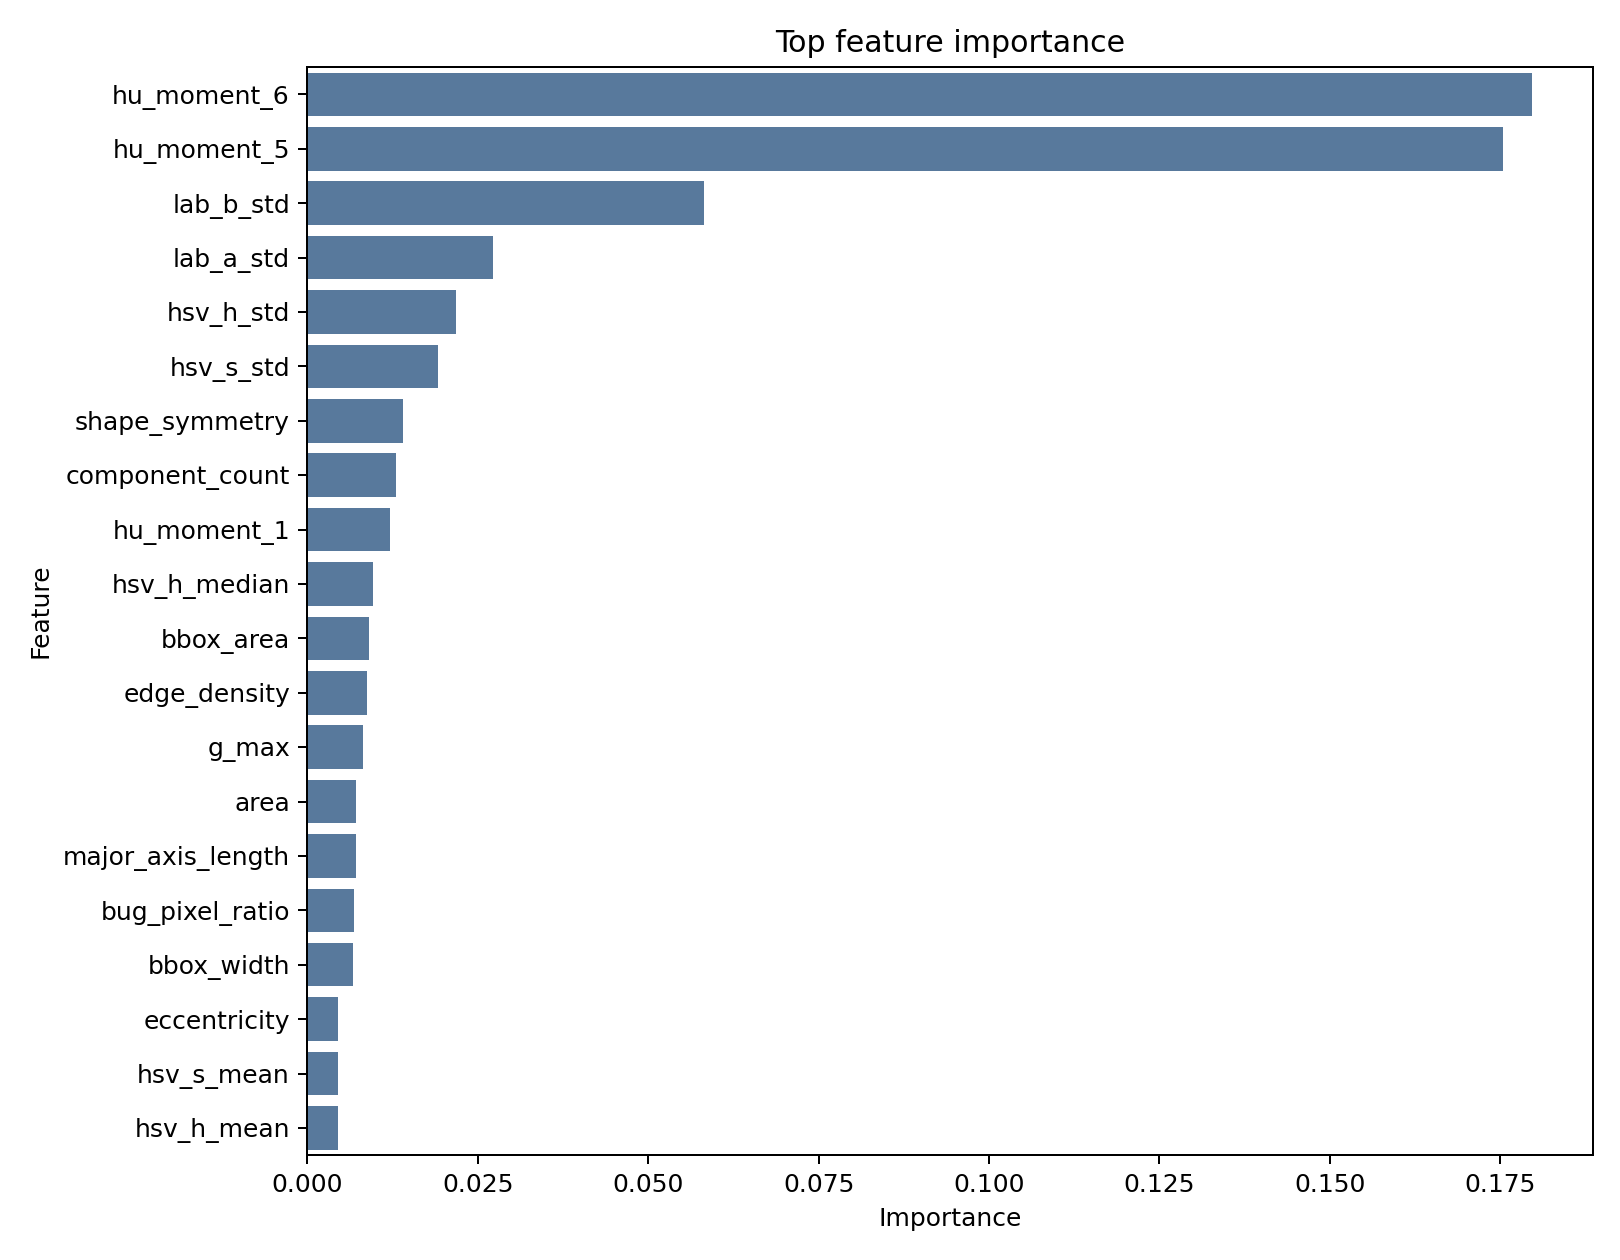
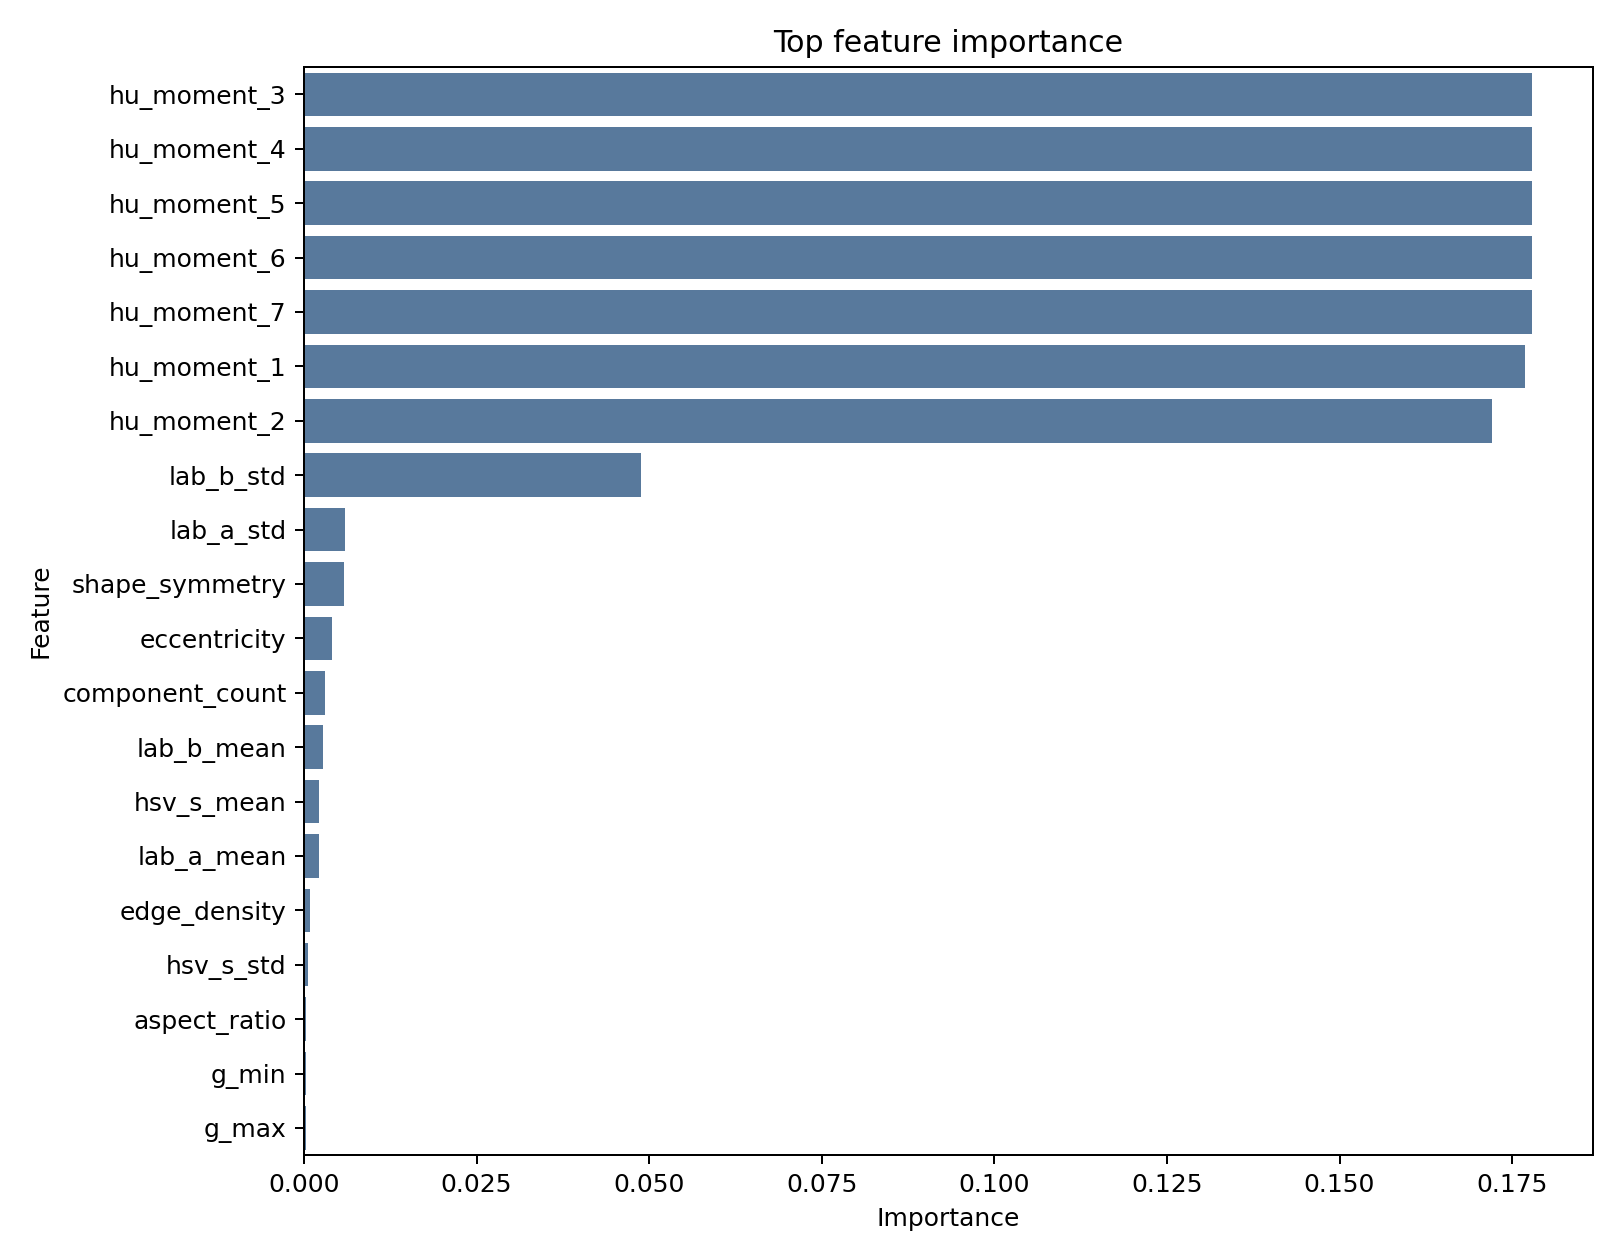
Apply robust final model selection policy

diff --git a/src/train_models.py b/src/train_models.py
@@ -42,6 +42,19 @@ warnings.filterwarnings("ignore", category=RuntimeWarning, module=r"sklearn\..*"
 
 
 NON_FEATURE_COLUMNS = {config.ID_COLUMN, config.TARGET_COLUMN, config.SPECIES_COLUMN}
+TIE_BREAKER_THRESHOLD = 0.005
+TIE_BREAKER_PRIORITY = [
+    "svm_rbf",
+    "random_forest",
+    "extra_trees",
+    "logistic_regression",
+    "knn",
+    "mlp",
+]
+TIE_BREAKER_REASON = (
+    "SVM RBF selected by robustness tie-breaker because its macro-F1 is within 0.005 "
+    "of MLP and it is simpler/stabler for small imbalanced data."
+)
 
 
 def load_training_features() -> tuple[pd.DataFrame, pd.DataFrame, pd.Series]:
@@ -189,7 +202,7 @@ def _feature_importance(final_model: Pipeline, X: pd.DataFrame, y: pd.Series) ->
                 scoring="f1_macro",
                 n_repeats=5,
                 random_state=config.RANDOM_STATE,
-                n_jobs=-1,
+                n_jobs=1,
             )
         importances = result.importances_mean
         method = "permutation_importance_training_descriptive"
@@ -213,6 +226,35 @@ def _feature_importance(final_model: Pipeline, X: pd.DataFrame, y: pd.Series) ->
             for i in top
         ],
     }
+
+
+def choose_final_model(successful: pd.DataFrame) -> tuple[str, str, dict, dict, dict]:
+    ordered = successful.sort_values(["macro_f1", "weighted_f1", "accuracy"], ascending=False)
+    numeric_best = ordered.iloc[0].to_dict()
+    numeric_best_model = str(numeric_best["model"])
+    numeric_best_macro_f1 = float(numeric_best["macro_f1"])
+    threshold_floor = numeric_best_macro_f1 - TIE_BREAKER_THRESHOLD
+    tied = successful[successful["macro_f1"] >= threshold_floor].copy()
+    tied_models = set(tied["model"].astype(str))
+
+    final_model = numeric_best_model
+    for candidate in TIE_BREAKER_PRIORITY:
+        if candidate in tied_models:
+            final_model = candidate
+            break
+
+    final_metrics = tied[tied["model"] == final_model].iloc[0].to_dict()
+    tie_breaker_applied = final_model != numeric_best_model
+    policy = {
+        "threshold": TIE_BREAKER_THRESHOLD,
+        "priority_order": TIE_BREAKER_PRIORITY,
+        "models_within_threshold": tied.sort_values("macro_f1", ascending=False)["model"].tolist(),
+        "applied": tie_breaker_applied,
+        "reason": TIE_BREAKER_REASON
+        if tie_breaker_applied
+        else "Numerically best model retained; no higher-priority stable model was within the tie threshold.",
+    }
+    return numeric_best_model, final_model, numeric_best, final_metrics, policy
 
 
 def train_models() -> dict:
@@ -264,33 +306,48 @@ def train_models() -> dict:
     if successful.empty:
         raise RuntimeError("All model evaluations failed.")
     successful = successful.sort_values(["macro_f1", "weighted_f1", "accuracy"], ascending=False)
-    best_model_name = str(successful.iloc[0]["model"])
-    best_pipeline = clone(model_registry()[best_model_name])
+    (
+        numeric_best_model,
+        final_model_name,
+        numeric_best_metrics,
+        final_recommended_metrics,
+        tie_breaker_policy,
+    ) = choose_final_model(successful)
+    final_pipeline = clone(model_registry()[final_model_name])
 
     with warnings.catch_warnings():
         warnings.simplefilter("ignore", category=ConvergenceWarning)
         warnings.simplefilter("ignore", category=RuntimeWarning)
-        best_pipeline.fit(X, y)
-    train_pred = best_pipeline.predict(X)
-    full_training_metrics = metric_row(best_model_name, y, train_pred)
-    reports["full_data_descriptive_reports"][best_model_name] = classification_report(
+        final_pipeline.fit(X, y)
+    train_pred = final_pipeline.predict(X)
+    full_training_metrics = metric_row(final_model_name, y, train_pred)
+    reports["numeric_best_model"] = numeric_best_model
+    reports["final_recommended_model"] = final_model_name
+    reports["tie_breaker_policy"] = tie_breaker_policy
+    reports["full_data_descriptive_reports"][final_model_name] = classification_report(
         y, train_pred, output_dict=True, zero_division=0
     )
 
-    feature_importance = _feature_importance(best_pipeline, X, y)
-    joblib.dump(best_pipeline, config.BEST_MODEL_PATH)
+    feature_importance = _feature_importance(final_pipeline, X, y)
+    joblib.dump(final_pipeline, config.BEST_MODEL_PATH)
 
     known_labels = sorted(load_labels()[config.TARGET_COLUMN].astype(str).unique().tolist())
     info = {
         "created_at_utc": datetime.now(timezone.utc).isoformat(),
-        "best_model": best_model_name,
+        "numeric_best_model": numeric_best_model,
+        "final_recommended_model": final_model_name,
+        "best_model": final_model_name,
         "selection_metric": "frequent_class_cv_macro_f1",
+        "final_selection_policy": "robustness_tie_breaker_threshold_0.005",
+        "tie_breaker": tie_breaker_policy,
         "target": config.TARGET_COLUMN,
         "species_used_as_target": False,
         "train_feature_rows": int(len(df)),
         "excluded_ids": sorted(config.EXCLUDED_TRAIN_IDS),
         "cv_policy": cv_info,
-        "best_validation_metrics": successful.iloc[0].to_dict(),
+        "numeric_best_validation_metrics": numeric_best_metrics,
+        "final_recommended_validation_metrics": final_recommended_metrics,
+        "best_validation_metrics": final_recommended_metrics,
         "full_data_descriptive_training_metrics": full_training_metrics,
         "model_path": str(config.BEST_MODEL_PATH),
         "known_bug_type_labels": known_labels,
@@ -299,7 +356,8 @@ def train_models() -> dict:
     }
     config.BEST_MODEL_INFO_JSON.write_text(json.dumps(info, indent=2), encoding="utf-8")
     config.CLASSIFICATION_REPORTS_JSON.write_text(json.dumps(reports, indent=2), encoding="utf-8")
-    print(f"Best model: {best_model_name}")
+    print(f"Numeric best model: {numeric_best_model}")
+    print(f"Final recommended model: {final_model_name}")
     return info
 
 

diff --git a/src/make_report.py b/src/make_report.py
@@ -57,8 +57,11 @@ def _markdown_report() -> str:
     comparison = pd.read_csv(config.MODEL_COMPARISON_CSV) if config.MODEL_COMPARISON_CSV.exists() else pd.DataFrame()
     clustering = pd.read_csv(config.CLUSTERING_METRICS_CSV) if config.CLUSTERING_METRICS_CSV.exists() else pd.DataFrame()
     train_rows = best_info.get("train_feature_rows", 249 if config.TRAIN_FEATURES_CSV.exists() else "not generated")
-    best_model = best_info.get("best_model", "not selected")
-    selected_metrics = best_info.get("best_validation_metrics", {})
+    numeric_best_model = best_info.get("numeric_best_model", best_info.get("best_model", "not selected"))
+    final_recommended_model = best_info.get("final_recommended_model", best_info.get("best_model", "not selected"))
+    numeric_metrics = best_info.get("numeric_best_validation_metrics", best_info.get("best_validation_metrics", {}))
+    final_metrics = best_info.get("final_recommended_validation_metrics", best_info.get("best_validation_metrics", {}))
+    tie_breaker = best_info.get("tie_breaker", {})
     full_metrics = best_info.get("full_data_descriptive_training_metrics", {})
     test_available = test_data_available()
 
@@ -118,7 +121,7 @@ def _markdown_report() -> str:
         "",
         "## 6. Supervised models",
         "",
-        "The supervised target is `bug type`; `species` is not used as a target. Model comparison uses frequent-class stratified cross-validation because singleton classes make ordinary stratified 5-fold CV invalid for the full label set. The final selected supervised model is refit on all 249 usable samples, including rare classes.",
+        "The supervised target is `bug type`; `species` is not used as a target. Model comparison uses frequent-class stratified cross-validation because singleton classes make ordinary stratified 5-fold CV invalid for the full label set. The final recommended supervised model is refit on all 249 usable samples, including rare classes.",
         "",
         "Models evaluated: DummyClassifier, LogisticRegression, SVM RBF, KNeighborsClassifier, RandomForestClassifier, ExtraTreesClassifier, GradientBoostingClassifier, and MLPClassifier on extracted features.",
         "",
@@ -126,9 +129,15 @@ def _markdown_report() -> str:
         "",
         _top_model_table(comparison),
         "",
-        f"Selected model: `{best_model}`.",
+        f"Numerically highest CV macro-F1 model: `{numeric_best_model}`.",
         "",
-        f"Selected validation macro-F1: `{selected_metrics.get('macro_f1', 'not available')}`.",
+        f"Numeric best validation macro-F1: `{numeric_metrics.get('macro_f1', 'not available')}`.",
+        "",
+        f"Final recommended submission model: `{final_recommended_model}`.",
+        "",
+        f"Final recommended validation macro-F1: `{final_metrics.get('macro_f1', 'not available')}`.",
+        "",
+        f"Robustness tie-breaker: {tie_breaker.get('reason', 'not applied')}",
         "",
         "Full-data training metrics are descriptive only, not validation metrics.",
         "",
@@ -142,7 +151,7 @@ def _markdown_report() -> str:
         "",
         "## 8. Results",
         "",
-        "The selected model is chosen by frequent-class cross-validation macro-F1. Confusion matrices and feature importance plots are generated under `reports/figures/`.",
+        "The metric table remains unchanged: MLP has the numerically highest frequent-class CV macro-F1. Because SVM RBF is within 0.005 macro-F1 of MLP and is simpler/stabler on small imbalanced handcrafted-feature data, SVM RBF is the final recommended submission model. Confusion matrices and feature importance plots are generated under `reports/figures/`.",
         "",
         f"- Feature importance: `{_figure(config.FIGURES_DIR / 'feature_importance.png')}`",
         "",
@@ -158,7 +167,7 @@ def _markdown_report() -> str:
         "",
         "## 10. Limitations",
         "",
-        "The dataset is small and imbalanced, with very rare classes. Cross-validation excludes singleton classes for model comparison, so rare-class performance is documented mainly through the final full-data descriptive fit. The final model remains feature-based and depends on segmentation mask quality.",
+        "The dataset is small and imbalanced, with very rare classes. Cross-validation excludes singleton classes for model comparison, so rare-class performance is documented mainly through the final full-data descriptive fit. The final recommended model remains feature-based and depends on segmentation mask quality.",
         "",
         "## 11. Reproducibility",
         "",
@@ -290,7 +299,7 @@ def write_pdf_report() -> Path:
     story.append(
         Paragraph(
             "Model comparison uses frequent-class stratified cross-validation because singleton classes make full-label stratified CV invalid. "
-            "The selected model is refit on all 249 usable samples.",
+            "The final recommended model is refit on all 249 usable samples.",
             styles["BodyText"],
         )
     )
@@ -298,8 +307,11 @@ def write_pdf_report() -> Path:
     story.append(Spacer(1, 0.1 * inch))
     story.append(
         Paragraph(
-            f"Selected model: {best_info.get('best_model', 'not selected')}. "
-            f"Validation macro-F1: {best_info.get('best_validation_metrics', {}).get('macro_f1', 'not available')}.",
+            f"Numerically highest CV macro-F1 model: {best_info.get('numeric_best_model', best_info.get('best_model', 'not selected'))} "
+            f"({best_info.get('numeric_best_validation_metrics', best_info.get('best_validation_metrics', {})).get('macro_f1', 'not available')}). "
+            f"Final recommended submission model: {best_info.get('final_recommended_model', best_info.get('best_model', 'not selected'))} "
+            f"({best_info.get('final_recommended_validation_metrics', best_info.get('best_validation_metrics', {})).get('macro_f1', 'not available')}). "
+            f"{best_info.get('tie_breaker', {}).get('reason', '')}",
             styles["BodyText"],
         )
     )
@@ -359,4 +371,3 @@ def main() -> None:
 
 if __name__ == "__main__":
     main()
-

diff --git a/reports/report.md b/reports/report.md
@@ -47,7 +47,7 @@ Generated figures:
 
 ## 6. Supervised models
 
-The supervised target is `bug type`; `species` is not used as a target. Model comparison uses frequent-class stratified cross-validation because singleton classes make ordinary stratified 5-fold CV invalid for the full label set. The final selected supervised model is refit on all 249 usable samples, including rare classes.
+The supervised target is `bug type`; `species` is not used as a target. Model comparison uses frequent-class stratified cross-validation because singleton classes make ordinary stratified 5-fold CV invalid for the full label set. The final recommended supervised model is refit on all 249 usable samples, including rare classes.
 
 Models evaluated: DummyClassifier, LogisticRegression, SVM RBF, KNeighborsClassifier, RandomForestClassifier, ExtraTreesClassifier, GradientBoostingClassifier, and MLPClassifier on extracted features.
 
@@ -64,13 +64,19 @@ Model comparison:
 | random_forest       |   0.818548 |   0.563813 |      0.795637 | ok       |
 | dummy_most_frequent |   0.46371  |   0.126722 |      0.293811 | ok       |
 
-Selected model: `mlp`.
+Numerically highest CV macro-F1 model: `mlp`.
 
-Selected validation macro-F1: `0.7553521749357212`.
+Numeric best validation macro-F1: `0.7553521749357212`.
+
+Final recommended submission model: `svm_rbf`.
+
+Final recommended validation macro-F1: `0.7535392750651922`.
+
+Robustness tie-breaker: SVM RBF selected by robustness tie-breaker because its macro-F1 is within 0.005 of MLP and it is simpler/stabler for small imbalanced data.
 
 Full-data training metrics are descriptive only, not validation metrics.
 
-Descriptive full-data macro-F1: `1.0`.
+Descriptive full-data macro-F1: `0.9953290316974082`.
 
 ## 7. Clustering methods
 
@@ -84,7 +90,7 @@ KMeans, AgglomerativeClustering, and DBSCAN are run on imputed and standardized 
 
 ## 8. Results
 
-The selected model is chosen by frequent-class cross-validation macro-F1. Confusion matrices and feature importance plots are generated under `reports/figures/`.
+The metric table remains unchanged: MLP has the numerically highest frequent-class CV macro-F1. Because SVM RBF is within 0.005 macro-F1 of MLP and is simpler/stabler on small imbalanced handcrafted-feature data, SVM RBF is the final recommended submission model. Confusion matrices and feature importance plots are generated under `reports/figures/`.
 
 - Feature importance: `reports/figures/feature_importance.png`
 
@@ -96,7 +102,7 @@ When official test images and masks are available, `src.predict` will load `data
 
 ## 10. Limitations
 
-The dataset is small and imbalanced, with very rare classes. Cross-validation excludes singleton classes for model comparison, so rare-class performance is documented mainly through the final full-data descriptive fit. The final model remains feature-based and depends on segmentation mask quality.
+The dataset is small and imbalanced, with very rare classes. Cross-validation excludes singleton classes for model comparison, so rare-class performance is documented mainly through the final full-data descriptive fit. The final recommended model remains feature-based and depends on segmentation mask quality.
 
 ## 11. Reproducibility
 

diff --git a/README.md b/README.md
@@ -81,6 +81,10 @@ Important generated outputs:
 - `reports/report.md`
 - `reports/report.pdf`
 
+## Final Model Selection Policy
+
+Model comparison keeps the raw validation metric table unchanged. If the numerically best model and a simpler/stabler model have frequent-class CV macro-F1 values within `0.005`, the final recommendation uses this robustness priority: SVM RBF, RandomForest, ExtraTrees, LogisticRegression, KNN, then MLP. This policy is recorded in `results/best_model_info.json`.
+
 ## Contributions
 
 - Lianghong LI: project lead; implemented feature extraction, model training, validation, final prediction pipeline, and report integration.